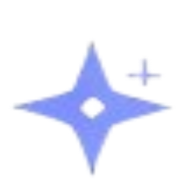
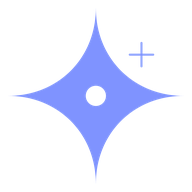
Add files via upload

Changed region(s): [[0.0625, 0.0625, 0.9375, 0.9375]]

diff --git a/pwa.js b/pwa.js
@@ -12,7 +12,7 @@
   var hadController = !!(navigator.serviceWorker && navigator.serviceWorker.controller);
   var DB = 'convertor-11437-default-rtdb.firebaseio.com';
   var SECTIONS = ['converter', 'pdf', 'pdfmerge', 'texttopdf', 'ocr', 'unlocker', 'heic2jpg', 'qrcode', 'compress', 'photoprep', 'scanner', 'pagetools', 'signpdf', 'exif', 'qrscan'];
-  var BUILD = '12';
+  var BUILD = '14';
   window.MG_BUILD = BUILD;
   var FONT = 'font:600 14px Poppins,Inter,system-ui,sans-serif;';
 
@@ -229,6 +229,7 @@
     requestAnimationFrame(function () { requestAnimationFrame(function () { ov.style.opacity = '1'; ov.querySelector('.mgu-fill').style.width = '100%'; }); });
     setTimeout(function () { sub.textContent = t('installing'); }, 1700);
     try { sessionStorage.setItem('mg_updating', '1'); } catch (e) {}
+    try { (waitingSW || (swReg && swReg.waiting)).postMessage('SKIP_WAITING'); } catch (e) {}   // permission given: switch the new version on
     setTimeout(function () { location.reload(); }, 3000);
   }
   function showUpdateButtons() { return updatePending && standalone && !updating; }
@@ -257,17 +258,28 @@
     if (ov && window.MutationObserver) new MutationObserver(refreshUpdateSetting).observe(ov, { attributes: true });
   });
 
-  /* ---- service worker + update notice ---- */
+  /* ---- service worker + update notice ----
+     A new version is downloaded in the background but NOT switched on until the person allows it:
+     installed app  -> bar with Update / Cancel (Cancel keeps an Update button in the quick menu and Settings)
+     website        -> switched on quietly, because there is nothing to interrupt */
+  var swReg = null, waitingSW = null;
+  function offerUpdate(w) {
+    if (!w) return;
+    if (!standalone) { try { w.postMessage('SKIP_WAITING'); } catch (e) {} return; }
+    waitingSW = w; showUpdateBar();
+  }
   if ('serviceWorker' in navigator && (location.protocol === 'https:' || location.hostname === 'localhost' || location.hostname === '127.0.0.1')) {
     window.addEventListener('load', function () {
       navigator.serviceWorker.register('sw.js').then(function (reg) {
+        swReg = reg;
+        if (reg.waiting && navigator.serviceWorker.controller) offerUpdate(reg.waiting);
+        reg.addEventListener('updatefound', function () {
+          var n = reg.installing; if (!n) return;
+          n.addEventListener('statechange', function () { if (n.state === 'installed' && navigator.serviceWorker.controller) offerUpdate(n); });
+        });
         setInterval(function () { reg.update().catch(function () {}); }, 30 * 60 * 1000);
         document.addEventListener('visibilitychange', function () { if (!document.hidden) reg.update().catch(function () {}); });
       }).catch(function (e) { console.warn('SW registration failed', e); });
-    });
-    navigator.serviceWorker.addEventListener('controllerchange', function () {
-      if (!hadController) return;
-      showUpdateBar();
     });
   }
 

diff --git a/compress-image-to-100kb.html b/compress-image-to-100kb.html
@@ -5,7 +5,7 @@
 <title>Compress Image to 100 KB, 50 KB or 20 KB – Free | MediaGrabber Pro</title><meta name="description" content="Shrink photos to an exact size limit such as 20 KB, 50 KB or 100 KB for forms and portals. Runs in your browser; nothing is uploaded.">
 <link rel="canonical" href="https://codemaster2013.github.io/converter/compress-image-to-100kb.html"><meta name="theme-color" content="#05070f">
 <meta property="og:type" content="website"><meta property="og:title" content="Compress Image to 100 KB, 50 KB or 20 KB – Free | MediaGrabber Pro"><meta property="og:description" content="Shrink photos to an exact size limit such as 20 KB, 50 KB or 100 KB for forms and portals. Runs in your browser; nothing is uploaded."><meta property="og:url" content="https://codemaster2013.github.io/converter/compress-image-to-100kb.html">
-<link rel="icon" href="favicon.ico"><link href="https://fonts.googleapis.com/css2?family=Poppins:wght@400;600;700&display=swap" rel="stylesheet">
+<link rel="icon" href="favicon.ico?v=3"><link href="https://fonts.googleapis.com/css2?family=Poppins:wght@400;600;700&display=swap" rel="stylesheet">
 <style>*{box-sizing:border-box;margin:0}body{font-family:Poppins,system-ui,sans-serif;background:#05070f;color:#e5e7eb;line-height:1.65}
 a{color:#c4b5fd}.wrap{max-width:760px;margin:0 auto;padding:28px 20px 60px}.brand{font-weight:700;color:#a78bfa;text-decoration:none;font-size:15px}
 h1{font-size:clamp(26px,5vw,38px);line-height:1.2;margin:22px 0 12px}h2{font-size:20px;margin:30px 0 10px}p{color:#cbd5e1}

diff --git a/document-scanner-pdf.html b/document-scanner-pdf.html
@@ -5,7 +5,7 @@
 <title>Free Document Scanner – Camera to PDF in Your Browser | MediaGrabber Pro</title><meta name="description" content="Scan paper with your camera: auto-detect edges, straighten the page, clean the look and export a PDF. Private, no app needed.">
 <link rel="canonical" href="https://codemaster2013.github.io/converter/document-scanner-pdf.html"><meta name="theme-color" content="#05070f">
 <meta property="og:type" content="website"><meta property="og:title" content="Free Document Scanner – Camera to PDF in Your Browser | MediaGrabber Pro"><meta property="og:description" content="Scan paper with your camera: auto-detect edges, straighten the page, clean the look and export a PDF. Private, no app needed."><meta property="og:url" content="https://codemaster2013.github.io/converter/document-scanner-pdf.html">
-<link rel="icon" href="favicon.ico"><link href="https://fonts.googleapis.com/css2?family=Poppins:wght@400;600;700&display=swap" rel="stylesheet">
+<link rel="icon" href="favicon.ico?v=3"><link href="https://fonts.googleapis.com/css2?family=Poppins:wght@400;600;700&display=swap" rel="stylesheet">
 <style>*{box-sizing:border-box;margin:0}body{font-family:Poppins,system-ui,sans-serif;background:#05070f;color:#e5e7eb;line-height:1.65}
 a{color:#c4b5fd}.wrap{max-width:760px;margin:0 auto;padding:28px 20px 60px}.brand{font-weight:700;color:#a78bfa;text-decoration:none;font-size:15px}
 h1{font-size:clamp(26px,5vw,38px);line-height:1.2;margin:22px 0 12px}h2{font-size:20px;margin:30px 0 10px}p{color:#cbd5e1}

diff --git a/passport-size-photo-maker.html b/passport-size-photo-maker.html
@@ -5,7 +5,7 @@
 <title>Photo &amp; Signature Resizer for Forms – Exact Pixels and KB | MediaGrabber Pro</title><meta name="description" content="Crop and resize a photo or signature to the exact pixel size and file size a form needs. Private and free.">
 <link rel="canonical" href="https://codemaster2013.github.io/converter/passport-size-photo-maker.html"><meta name="theme-color" content="#05070f">
 <meta property="og:type" content="website"><meta property="og:title" content="Photo &amp; Signature Resizer for Forms – Exact Pixels and KB | MediaGrabber Pro"><meta property="og:description" content="Crop and resize a photo or signature to the exact pixel size and file size a form needs. Private and free."><meta property="og:url" content="https://codemaster2013.github.io/converter/passport-size-photo-maker.html">
-<link rel="icon" href="favicon.ico"><link href="https://fonts.googleapis.com/css2?family=Poppins:wght@400;600;700&display=swap" rel="stylesheet">
+<link rel="icon" href="favicon.ico?v=3"><link href="https://fonts.googleapis.com/css2?family=Poppins:wght@400;600;700&display=swap" rel="stylesheet">
 <style>*{box-sizing:border-box;margin:0}body{font-family:Poppins,system-ui,sans-serif;background:#05070f;color:#e5e7eb;line-height:1.65}
 a{color:#c4b5fd}.wrap{max-width:760px;margin:0 auto;padding:28px 20px 60px}.brand{font-weight:700;color:#a78bfa;text-decoration:none;font-size:15px}
 h1{font-size:clamp(26px,5vw,38px);line-height:1.2;margin:22px 0 12px}h2{font-size:20px;margin:30px 0 10px}p{color:#cbd5e1}

diff --git a/pdf-page-organizer.html b/pdf-page-organizer.html
@@ -5,7 +5,7 @@
 <title>Rotate, Reorder, Delete and Split PDF Pages – Private | MediaGrabber Pro</title><meta name="description" content="Rotate, reorder or delete PDF pages, add page numbers or a watermark, extract pages and split a PDF. Free and private.">
 <link rel="canonical" href="https://codemaster2013.github.io/converter/pdf-page-organizer.html"><meta name="theme-color" content="#05070f">
 <meta property="og:type" content="website"><meta property="og:title" content="Rotate, Reorder, Delete and Split PDF Pages – Private | MediaGrabber Pro"><meta property="og:description" content="Rotate, reorder or delete PDF pages, add page numbers or a watermark, extract pages and split a PDF. Free and private."><meta property="og:url" content="https://codemaster2013.github.io/converter/pdf-page-organizer.html">
-<link rel="icon" href="favicon.ico"><link href="https://fonts.googleapis.com/css2?family=Poppins:wght@400;600;700&display=swap" rel="stylesheet">
+<link rel="icon" href="favicon.ico?v=3"><link href="https://fonts.googleapis.com/css2?family=Poppins:wght@400;600;700&display=swap" rel="stylesheet">
 <style>*{box-sizing:border-box;margin:0}body{font-family:Poppins,system-ui,sans-serif;background:#05070f;color:#e5e7eb;line-height:1.65}
 a{color:#c4b5fd}.wrap{max-width:760px;margin:0 auto;padding:28px 20px 60px}.brand{font-weight:700;color:#a78bfa;text-decoration:none;font-size:15px}
 h1{font-size:clamp(26px,5vw,38px);line-height:1.2;margin:22px 0 12px}h2{font-size:20px;margin:30px 0 10px}p{color:#cbd5e1}

diff --git a/jpg-to-pdf.html b/jpg-to-pdf.html
@@ -5,7 +5,7 @@
 <title>Image to PDF &amp; JPG to PDF Converter – Free, Private | MediaGrabber Pro</title><meta name="description" content="Convert images to PDF online: JPG to PDF, PNG to PDF and photos to PDF. Combine many images into one PDF in your browser, no upload.">
 <link rel="canonical" href="https://codemaster2013.github.io/converter/jpg-to-pdf.html"><meta name="theme-color" content="#05070f">
 <meta property="og:type" content="website"><meta property="og:title" content="JPG to PDF Converter – Free, Private, No Upload | MediaGrabber Pro"><meta property="og:description" content="Turn JPG and PNG photos into one PDF in your browser. Free, no sign-up, and your images never leave your device."><meta property="og:url" content="https://codemaster2013.github.io/converter/jpg-to-pdf.html">
-<link rel="icon" href="favicon.ico"><link href="https://fonts.googleapis.com/css2?family=Poppins:wght@400;600;700&display=swap" rel="stylesheet">
+<link rel="icon" href="favicon.ico?v=3"><link href="https://fonts.googleapis.com/css2?family=Poppins:wght@400;600;700&display=swap" rel="stylesheet">
 <style>*{box-sizing:border-box;margin:0}body{font-family:Poppins,system-ui,sans-serif;background:#05070f;color:#e5e7eb;line-height:1.65}
 a{color:#c4b5fd}.wrap{max-width:760px;margin:0 auto;padding:28px 20px 60px}.brand{font-weight:700;color:#a78bfa;text-decoration:none;font-size:15px}
 h1{font-size:clamp(26px,5vw,38px);line-height:1.2;margin:22px 0 12px}h2{font-size:20px;margin:30px 0 10px}p{color:#cbd5e1}

diff --git a/remove-exif-gps-from-photo.html b/remove-exif-gps-from-photo.html
@@ -5,7 +5,7 @@
 <title>Remove EXIF and GPS Location from Photos – Free | MediaGrabber Pro</title><meta name="description" content="See what hidden data a photo contains (GPS, camera, date) and remove it before you share. Private and free.">
 <link rel="canonical" href="https://codemaster2013.github.io/converter/remove-exif-gps-from-photo.html"><meta name="theme-color" content="#05070f">
 <meta property="og:type" content="website"><meta property="og:title" content="Remove EXIF and GPS Location from Photos – Free | MediaGrabber Pro"><meta property="og:description" content="See what hidden data a photo contains (GPS, camera, date) and remove it before you share. Private and free."><meta property="og:url" content="https://codemaster2013.github.io/converter/remove-exif-gps-from-photo.html">
-<link rel="icon" href="favicon.ico"><link href="https://fonts.googleapis.com/css2?family=Poppins:wght@400;600;700&display=swap" rel="stylesheet">
+<link rel="icon" href="favicon.ico?v=3"><link href="https://fonts.googleapis.com/css2?family=Poppins:wght@400;600;700&display=swap" rel="stylesheet">
 <style>*{box-sizing:border-box;margin:0}body{font-family:Poppins,system-ui,sans-serif;background:#05070f;color:#e5e7eb;line-height:1.65}
 a{color:#c4b5fd}.wrap{max-width:760px;margin:0 auto;padding:28px 20px 60px}.brand{font-weight:700;color:#a78bfa;text-decoration:none;font-size:15px}
 h1{font-size:clamp(26px,5vw,38px);line-height:1.2;margin:22px 0 12px}h2{font-size:20px;margin:30px 0 10px}p{color:#cbd5e1}

diff --git a/heic-to-jpg.html b/heic-to-jpg.html
@@ -5,7 +5,7 @@
 <title>HEIC to JPG Converter – iPhone Photos, Free &amp; Private | MediaGrabber Pro</title><meta name="description" content="Convert iPhone HEIC/HEIF photos to JPG in your browser. Free, no upload, and you can convert many at once.">
 <link rel="canonical" href="https://codemaster2013.github.io/converter/heic-to-jpg.html"><meta name="theme-color" content="#05070f">
 <meta property="og:type" content="website"><meta property="og:title" content="HEIC to JPG Converter – iPhone Photos, Free &amp; Private | MediaGrabber Pro"><meta property="og:description" content="Convert iPhone HEIC/HEIF photos to JPG in your browser. Free, no upload, and you can convert many at once."><meta property="og:url" content="https://codemaster2013.github.io/converter/heic-to-jpg.html">
-<link rel="icon" href="favicon.ico"><link href="https://fonts.googleapis.com/css2?family=Poppins:wght@400;600;700&display=swap" rel="stylesheet">
+<link rel="icon" href="favicon.ico?v=3"><link href="https://fonts.googleapis.com/css2?family=Poppins:wght@400;600;700&display=swap" rel="stylesheet">
 <style>*{box-sizing:border-box;margin:0}body{font-family:Poppins,system-ui,sans-serif;background:#05070f;color:#e5e7eb;line-height:1.65}
 a{color:#c4b5fd}.wrap{max-width:760px;margin:0 auto;padding:28px 20px 60px}.brand{font-weight:700;color:#a78bfa;text-decoration:none;font-size:15px}
 h1{font-size:clamp(26px,5vw,38px);line-height:1.2;margin:22px 0 12px}h2{font-size:20px;margin:30px 0 10px}p{color:#cbd5e1}

diff --git a/unlock-pdf.html b/unlock-pdf.html
@@ -5,7 +5,7 @@
 <title>Unlock PDF – Remove a PDF Password You Know | MediaGrabber Pro</title><meta name="description" content="Remove the password from a PDF you own, right in your browser. You need the current password; nothing is uploaded.">
 <link rel="canonical" href="https://codemaster2013.github.io/converter/unlock-pdf.html"><meta name="theme-color" content="#05070f">
 <meta property="og:type" content="website"><meta property="og:title" content="Unlock PDF – Remove a PDF Password You Know | MediaGrabber Pro"><meta property="og:description" content="Remove the password from a PDF you own, right in your browser. You need the current password; nothing is uploaded."><meta property="og:url" content="https://codemaster2013.github.io/converter/unlock-pdf.html">
-<link rel="icon" href="favicon.ico"><link href="https://fonts.googleapis.com/css2?family=Poppins:wght@400;600;700&display=swap" rel="stylesheet">
+<link rel="icon" href="favicon.ico?v=3"><link href="https://fonts.googleapis.com/css2?family=Poppins:wght@400;600;700&display=swap" rel="stylesheet">
 <style>*{box-sizing:border-box;margin:0}body{font-family:Poppins,system-ui,sans-serif;background:#05070f;color:#e5e7eb;line-height:1.65}
 a{color:#c4b5fd}.wrap{max-width:760px;margin:0 auto;padding:28px 20px 60px}.brand{font-weight:700;color:#a78bfa;text-decoration:none;font-size:15px}
 h1{font-size:clamp(26px,5vw,38px);line-height:1.2;margin:22px 0 12px}h2{font-size:20px;margin:30px 0 10px}p{color:#cbd5e1}

diff --git a/sign-pdf-online.html b/sign-pdf-online.html
@@ -5,7 +5,7 @@
 <title>Sign PDF Online – Draw Your Signature, Free | MediaGrabber Pro</title><meta name="description" content="Draw or upload your signature, place it on any PDF page and save the signed PDF. Free and private.">
 <link rel="canonical" href="https://codemaster2013.github.io/converter/sign-pdf-online.html"><meta name="theme-color" content="#05070f">
 <meta property="og:type" content="website"><meta property="og:title" content="Sign PDF Online – Draw Your Signature, Free | MediaGrabber Pro"><meta property="og:description" content="Draw or upload your signature, place it on any PDF page and save the signed PDF. Free and private."><meta property="og:url" content="https://codemaster2013.github.io/converter/sign-pdf-online.html">
-<link rel="icon" href="favicon.ico"><link href="https://fonts.googleapis.com/css2?family=Poppins:wght@400;600;700&display=swap" rel="stylesheet">
+<link rel="icon" href="favicon.ico?v=3"><link href="https://fonts.googleapis.com/css2?family=Poppins:wght@400;600;700&display=swap" rel="stylesheet">
 <style>*{box-sizing:border-box;margin:0}body{font-family:Poppins,system-ui,sans-serif;background:#05070f;color:#e5e7eb;line-height:1.65}
 a{color:#c4b5fd}.wrap{max-width:760px;margin:0 auto;padding:28px 20px 60px}.brand{font-weight:700;color:#a78bfa;text-decoration:none;font-size:15px}
 h1{font-size:clamp(26px,5vw,38px);line-height:1.2;margin:22px 0 12px}h2{font-size:20px;margin:30px 0 10px}p{color:#cbd5e1}

diff --git a/base64-converter.html b/base64-converter.html
@@ -6,7 +6,7 @@
 <link rel="canonical" href="https://codemaster2013.github.io/converter/base64-converter.html"><meta name="theme-color" content="#05070f">
 <meta property="og:type" content="website"><meta property="og:title" content="Base64 Converter – Image to Base64 &amp; Base64 to Image, Private | MediaGrabber Pro"><meta property="og:description" content="Encode images and text to Base64, decode Base64 back to a file, and convert text to binary. Runs in your browser, nothing is uploaded."><meta property="og:url" content="https://codemaster2013.github.io/converter/base64-converter.html"><meta property="og:image" content="https://codemaster2013.github.io/converter/og-image.png">
 <meta name="twitter:card" content="summary_large_image">
-<link rel="icon" href="favicon.ico"><link href="https://fonts.googleapis.com/css2?family=Poppins:wght@400;600;700&display=swap" rel="stylesheet">
+<link rel="icon" href="favicon.ico?v=3"><link href="https://fonts.googleapis.com/css2?family=Poppins:wght@400;600;700&display=swap" rel="stylesheet">
 <style>*{box-sizing:border-box;margin:0}body{font-family:Poppins,system-ui,sans-serif;background:#05070f;color:#e5e7eb;line-height:1.65}
 a{color:#c4b5fd}.wrap{max-width:760px;margin:0 auto;padding:28px 20px 60px}.brand{font-weight:700;color:#a78bfa;text-decoration:none;font-size:15px}
 h1{font-size:clamp(26px,5vw,38px);line-height:1.2;margin:22px 0 12px}h2{font-size:20px;margin:30px 0 10px}p{color:#cbd5e1}

diff --git a/qr-code-scanner.html b/qr-code-scanner.html
@@ -5,7 +5,7 @@
 <title>QR Code Scanner Online – Camera or Image | MediaGrabber Pro</title><meta name="description" content="Scan a QR code with your camera or from a saved image, right in your browser. Nothing is uploaded.">
 <link rel="canonical" href="https://codemaster2013.github.io/converter/qr-code-scanner.html"><meta name="theme-color" content="#05070f">
 <meta property="og:type" content="website"><meta property="og:title" content="QR Code Scanner Online – Camera or Image | MediaGrabber Pro"><meta property="og:description" content="Scan a QR code with your camera or from a saved image, right in your browser. Nothing is uploaded."><meta property="og:url" content="https://codemaster2013.github.io/converter/qr-code-scanner.html">
-<link rel="icon" href="favicon.ico"><link href="https://fonts.googleapis.com/css2?family=Poppins:wght@400;600;700&display=swap" rel="stylesheet">
+<link rel="icon" href="favicon.ico?v=3"><link href="https://fonts.googleapis.com/css2?family=Poppins:wght@400;600;700&display=swap" rel="stylesheet">
 <style>*{box-sizing:border-box;margin:0}body{font-family:Poppins,system-ui,sans-serif;background:#05070f;color:#e5e7eb;line-height:1.65}
 a{color:#c4b5fd}.wrap{max-width:760px;margin:0 auto;padding:28px 20px 60px}.brand{font-weight:700;color:#a78bfa;text-decoration:none;font-size:15px}
 h1{font-size:clamp(26px,5vw,38px);line-height:1.2;margin:22px 0 12px}h2{font-size:20px;margin:30px 0 10px}p{color:#cbd5e1}
